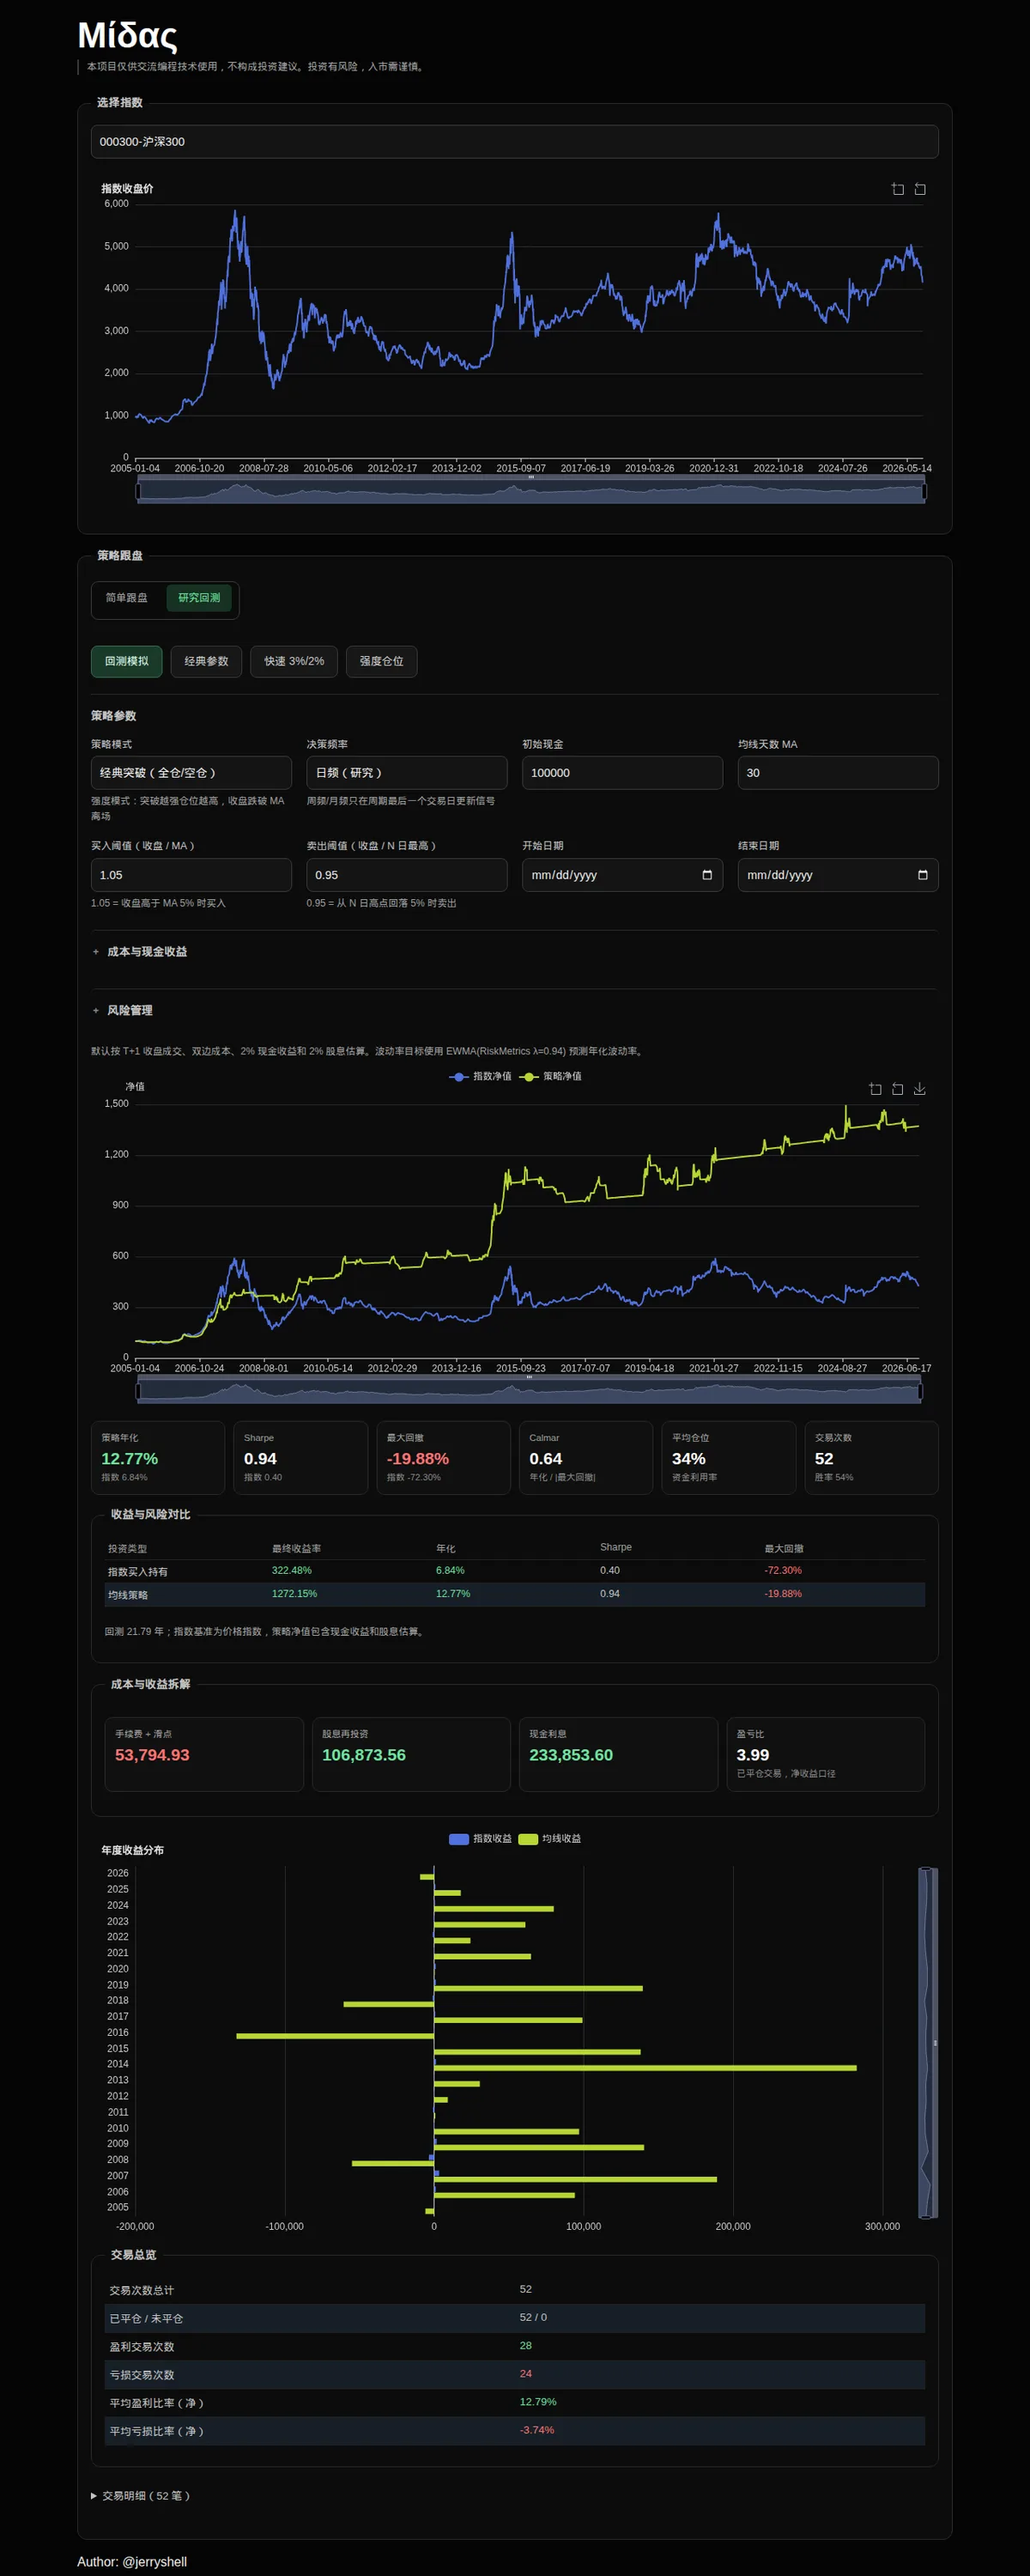
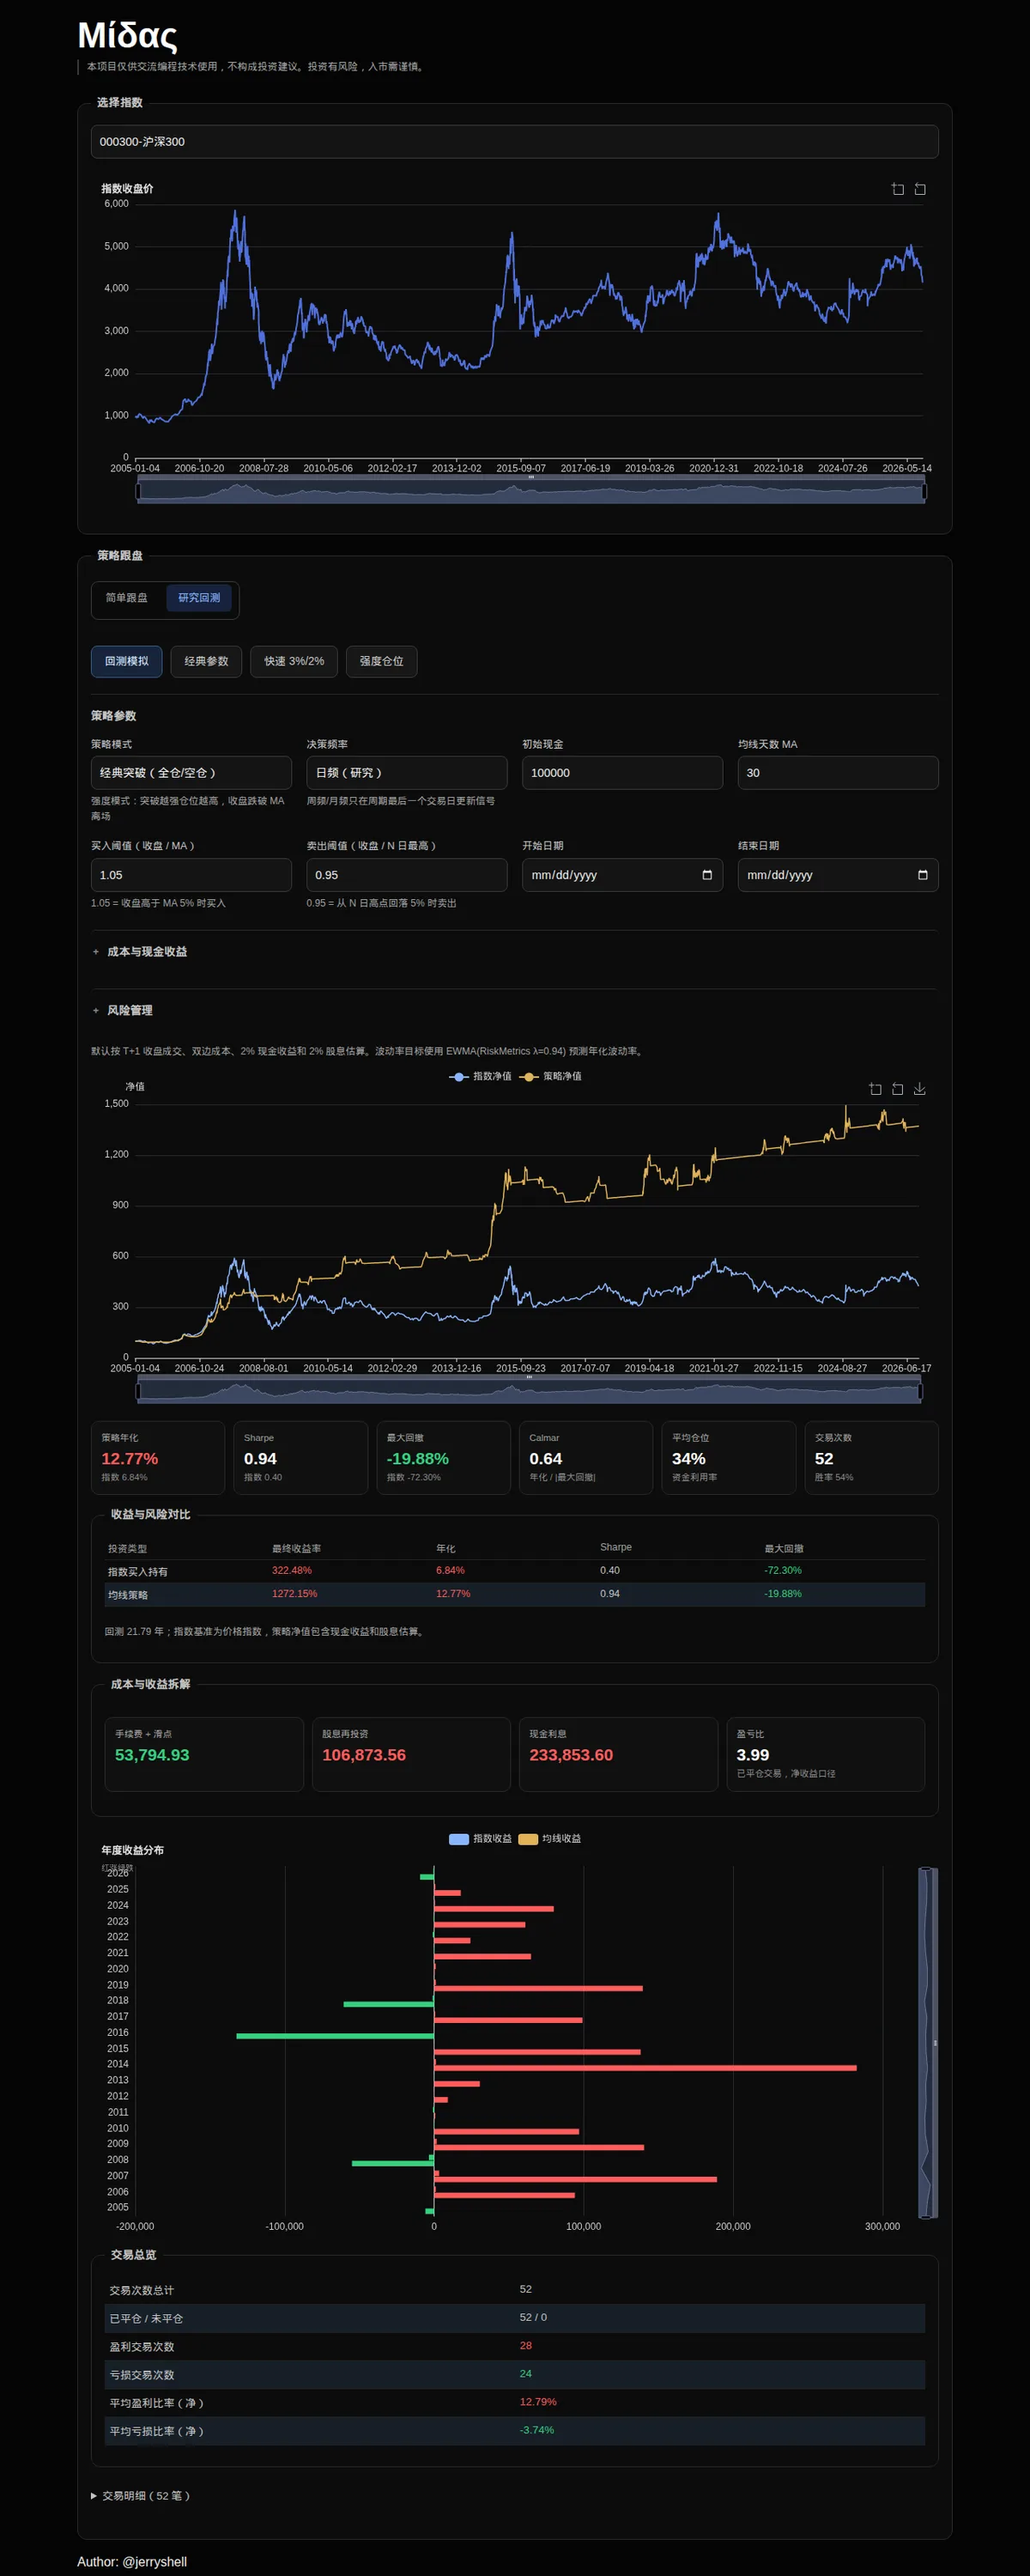
fix: follow China red-up green-down convention

diff --git a/midas-web/src/components/AnnualProfitChart.tsx b/midas-web/src/components/AnnualProfitChart.tsx
@@ -28,8 +28,10 @@ const AnnualProfitChart = (props: { annualProfitList: IAnnualProfit[] }) => {
         animation: false,
         title: {
           text: "年度收益分布",
+          subtext: "红涨绿跌",
           left: 8,
           textStyle: { fontSize: 13 },
+          subtextStyle: { color: "#8a8a8a", fontSize: 10 },
         },
         tooltip: {
           trigger: "axis",
@@ -81,19 +83,31 @@ const AnnualProfitChart = (props: { annualProfitList: IAnnualProfit[] }) => {
             name: "指数收益",
             type: "bar",
             barMaxWidth: 10,
+            itemStyle: { color: "#8ab4ff" },
             emphasis: {
               focus: "series",
             },
-            data: list.map((item) => item.indexProfit.toFixed(2)),
+            data: list.map((item) => ({
+              value: item.indexProfit.toFixed(2),
+              itemStyle: {
+                color: item.indexProfit >= 0 ? "#ff5c5c" : "#35d07f",
+              },
+            })),
           },
           {
             name: "均线收益",
             type: "bar",
             barMaxWidth: 10,
+            itemStyle: { color: "#e0b35a" },
             emphasis: {
               focus: "series",
             },
-            data: list.map((item) => item.maProfit.toFixed(2)),
+            data: list.map((item) => ({
+              value: item.maProfit.toFixed(2),
+              itemStyle: {
+                color: item.maProfit >= 0 ? "#ff5c5c" : "#35d07f",
+              },
+            })),
           },
         ],
       },

diff --git a/midas-web/src/index.css b/midas-web/src/index.css
@@ -10,9 +10,10 @@
   --text-soft: #c4c4c4;
   --muted: #a0a0a0;
   --faint: #8a8a8a;
-  --accent: #6fe39f;
-  --accent-bg: #173222;
-  --danger: #ff7272;
+  --accent: #8ab4ff;
+  --accent-bg: #16233d;
+  --up: #ff5c5c;
+  --down: #35d07f;
   --warning: #e0b35a;
   --radius: 10px;
   color-scheme: dark;
@@ -104,16 +105,16 @@ button {
   min-height: 40px;
   padding: 0 16px;
   border-radius: 8px;
-  border: 1px solid #356b4b;
-  background: #1b3a29;
-  color: #dcf8e8;
+  border: 1px solid #355a8a;
+  background: #17243a;
+  color: #dbe8ff;
   font: inherit;
   font-size: 0.86rem;
   cursor: pointer;
 }
 
 button:hover {
-  background: #224a34;
+  background: #1d2f4a;
 }
 
 button:disabled {
@@ -144,7 +145,7 @@ button.link-button {
 
 button.link-button:hover {
   background: transparent;
-  color: #9ff0bf;
+  color: #b9d0ff;
 }
 
 input,
@@ -347,7 +348,7 @@ label.checkbox input {
 .status-badge.holding {
   background: var(--accent-bg);
   color: var(--accent);
-  border: 1px solid #2e6b49;
+  border: 1px solid #355a8a;
 }
 
 .status-badge.cash {
@@ -535,12 +536,13 @@ td {
   word-break: break-word;
 }
 
+/* 中国市场习惯：红涨绿跌 */
 .profit {
-  color: var(--accent);
+  color: var(--up);
 }
 
 .loss {
-  color: var(--danger);
+  color: var(--down);
 }
 
 .chart {

diff --git a/midas-web/src/components/ProfitChart.tsx b/midas-web/src/components/ProfitChart.tsx
@@ -76,12 +76,16 @@ const ProfitChart = (props: { profitList: IProfit[] }) => {
             name: "指数净值",
             type: "line",
             showSymbol: false,
+            lineStyle: { color: "#8ab4ff", width: 1.5 },
+            itemStyle: { color: "#8ab4ff" },
             data: list.map((item) => ((item.closePoint / closeBase) * 100).toFixed(2)),
           },
           {
             name: "策略净值",
             type: "line",
             showSymbol: false,
+            lineStyle: { color: "#e0b35a", width: 1.5 },
+            itemStyle: { color: "#e0b35a" },
             data: list.map((item) => ((item.value / valueBase) * 100).toFixed(2)),
           },
         ],

diff --git a/midas-web/src/components/SimpleMode.tsx b/midas-web/src/components/SimpleMode.tsx
@@ -152,7 +152,14 @@ const SimpleMode = () => {
 
               <div class="simple-action">
                 <span class="simple-label">策略信号</span>
-                <strong>{actionLabel(data().action)}</strong>
+                <strong
+                  classList={{
+                    profit: data().action === "buy",
+                    loss: data().action === "sell",
+                  }}
+                >
+                  {actionLabel(data().action)}
+                </strong>
                 <Show when={data().actionDate}>
                   <span class="hint">执行日 {data().actionDate}</span>
                 </Show>

diff --git a/README.md b/README.md
@@ -31,6 +31,7 @@
 - 双边费率、滑点、T+1 成交、现金收益、股息再投资。
 - EWMA 波动率目标仓位（`stochastic-rs-stats`，RiskMetrics λ=0.94）。
 - 指标：年化、Sharpe、最大回撤、Calmar、平均仓位、胜率、盈亏比、费用/股息/利息拆解。
+- 颜色遵循 A 股习惯：**红涨绿跌**；蓝色只用于交互状态和图表线。
 - 日期区间只影响模拟区间，均线和滚动最高价仍使用区间前的完整历史。
 
 ### 回测口径
